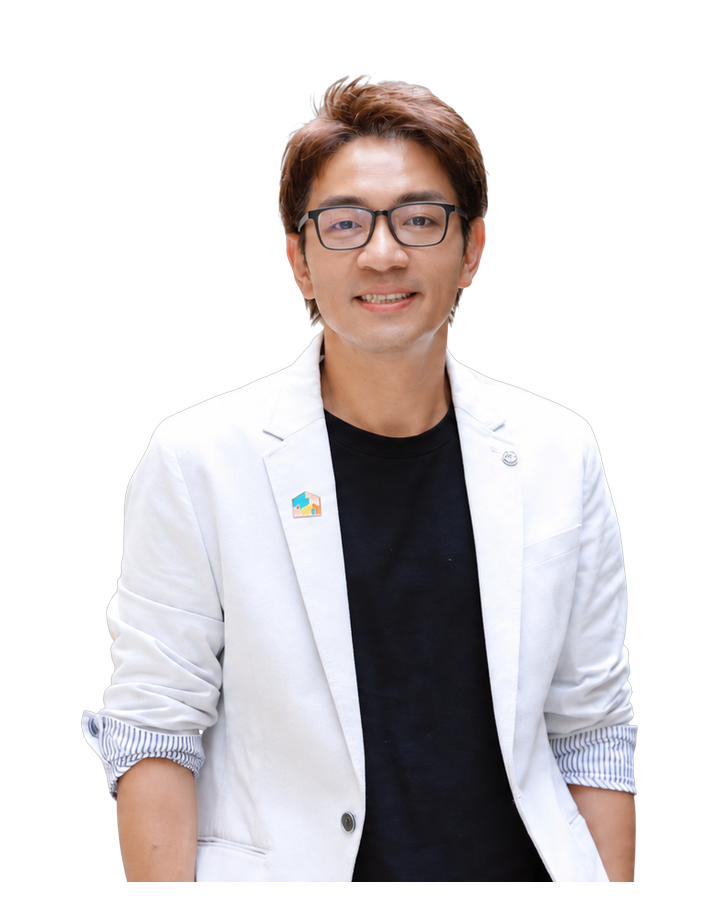
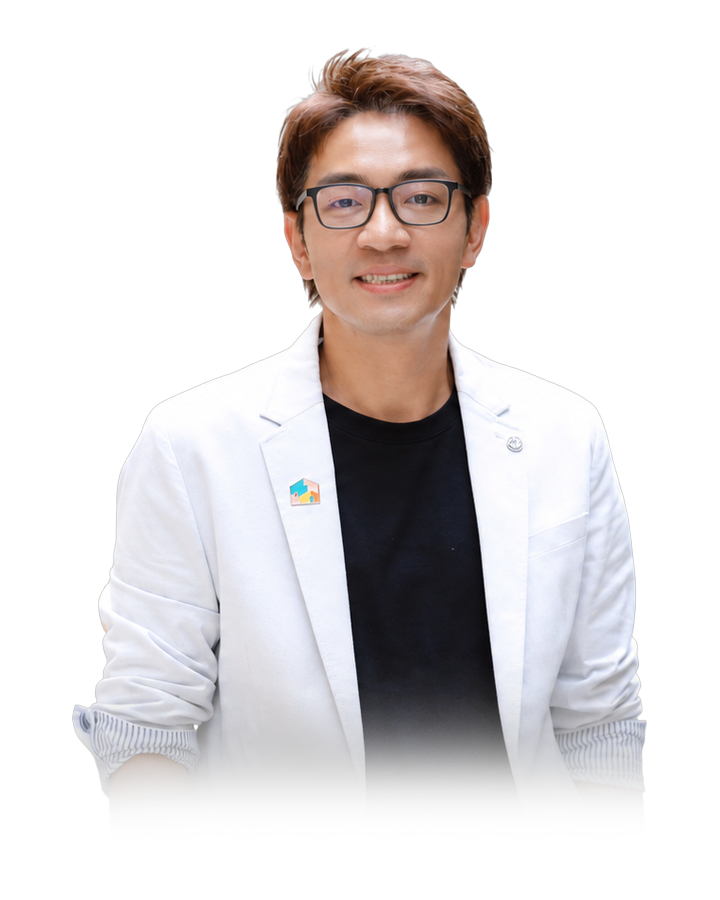
Hero 人物:換成用戶給的自帶漸層照片 + 整體往上置中
- 更新 instructor-chang.png / instructor-leo.png
  用用戶在素材夾新增的「_下方打霧漸層」版本重新 normalize
- 拿掉 CSS .hero-ins-stack::before 的雲霧漸層(照片已內建)
- 容器 min-height 從 672 降到 540 · 讓整個講師區跟左邊文字垂直置中
- 定位從 bottom 改成 top:0(左)/ top:48px(右)· 整體往上
- 標籤改 top:38%(照頭部附近)
- RWD 三斷點同步縮回

diff --git a/course-ai-workflow/index.html b/course-ai-workflow/index.html
@@ -199,38 +199,23 @@
     display: flex; align-items: center; gap: 0.5rem;
   }
 
-  /* ─────── Hero 講師(人物無底 · 整體放大 20% · 標籤徹底往外推)─────── */
+  /* ─────── Hero 講師(照片自帶漸層 · 整體往上置中 · 標籤徹底往外推)─────── */
   .hero-ins-stack {
     position: relative;
     width: 100%;
-    min-height: 672px;         /* 原 560 × 1.2 */
+    min-height: 540px;
     padding: 0;
     overflow: visible;
     background: transparent;
   }
-  /* 底部淡霧 · 用徑向漸層避免方形邊緣,看不到任何框 */
-  .hero-ins-stack::before {
-    content: '';
-    position: absolute;
-    left: 50%; bottom: -5%;
-    transform: translateX(-50%);
-    width: 110%; height: 55%;
-    background: radial-gradient(ellipse at 50% 100%,
-      rgba(174, 209, 184, 0.55) 0%,
-      rgba(174, 209, 184, 0.25) 45%,
-      transparent 80%);
-    pointer-events: none;
-    z-index: 0;
-    border-radius: 0;    /* 不要圓角 · 不要框 */
-  }
+  /* 照片已內建底部漸層,CSS 不再加 */
   .hero-ins {
     position: absolute;
-    width: 78%;                /* 原 65% × 1.2 ≈ 78% */
+    width: 78%;
     z-index: 2;
-    bottom: 0;
   }
-  .hero-ins.left  { left: -14%;  bottom: 0;  z-index: 3; }
-  .hero-ins.right { right: -14%; bottom: 48px; z-index: 2; }
+  .hero-ins.left  { left: -14%;  top: 0;     z-index: 3; }   /* 左講師:整體往上 */
+  .hero-ins.right { right: -14%; top: 48px;  z-index: 2; }   /* 右講師:低 48px */
   .hero-ins img {
     width: 100%;
     height: auto; display: block;
@@ -241,7 +226,7 @@
   .hero-ins .label {
     position: absolute;
     z-index: 4;
-    bottom: 28%;
+    top: 38%;
   }
   .hero-ins.left  .label { left: -8%;  text-align: left; }
   .hero-ins.right .label { right: -8%; text-align: right; }
@@ -267,13 +252,13 @@
   }
 
   @media (max-width: 1023px) {
-    .hero-ins-stack { min-height: 576px; }   /* 原 480 × 1.2 */
+    .hero-ins-stack { min-height: 460px; }
     .hero-ins .name { font-size: 18px; }
   }
   @media (max-width: 480px) {
-    .hero-ins-stack { min-height: 456px; }   /* 原 380 × 1.2 */
+    .hero-ins-stack { min-height: 380px; }
     .hero-ins.left  { left: -16%; }
-    .hero-ins.right { right: -16%; bottom: 28px; }
+    .hero-ins.right { right: -16%; top: 32px; }
     .hero-ins .name { font-size: 15px; }
     .hero-ins .role { font-size: 10px; }
   }
